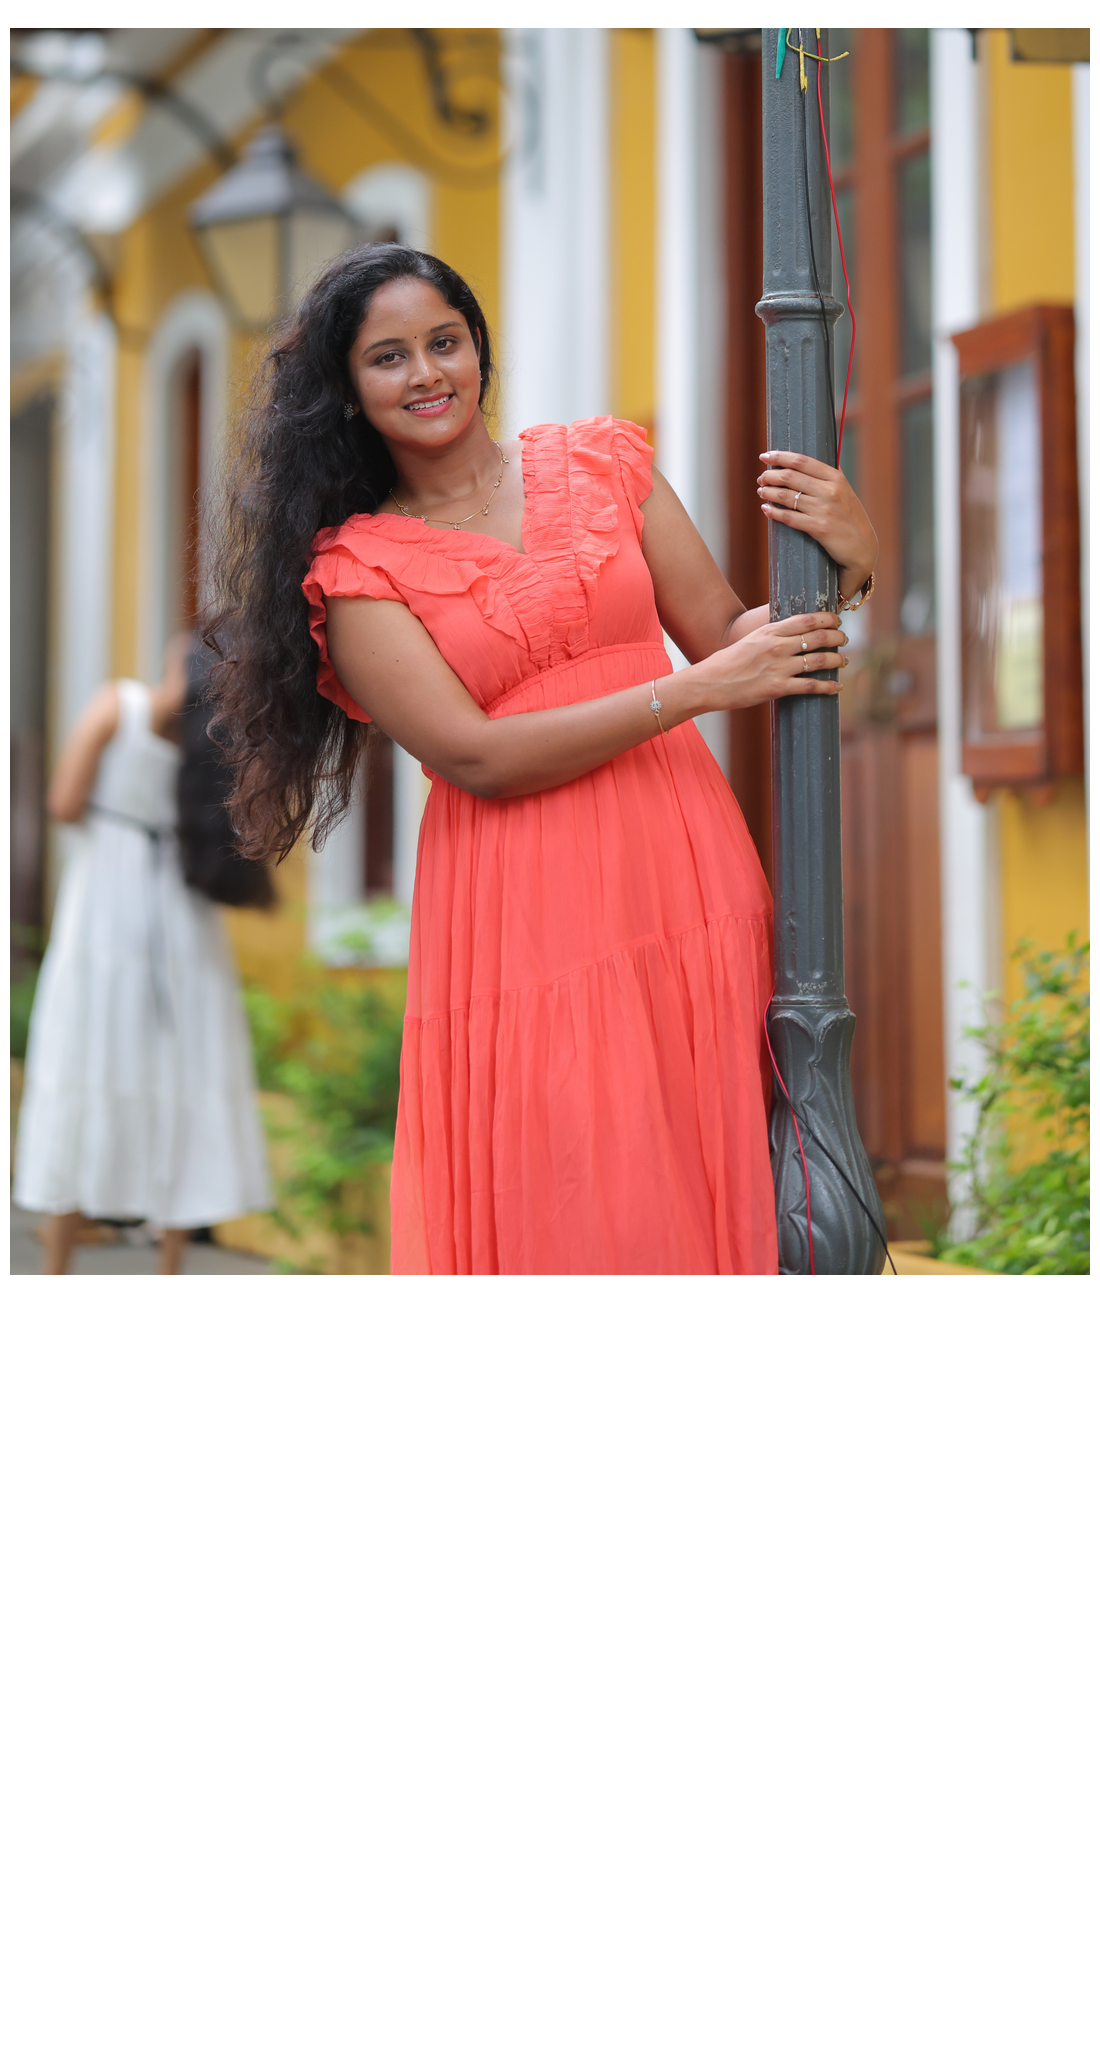
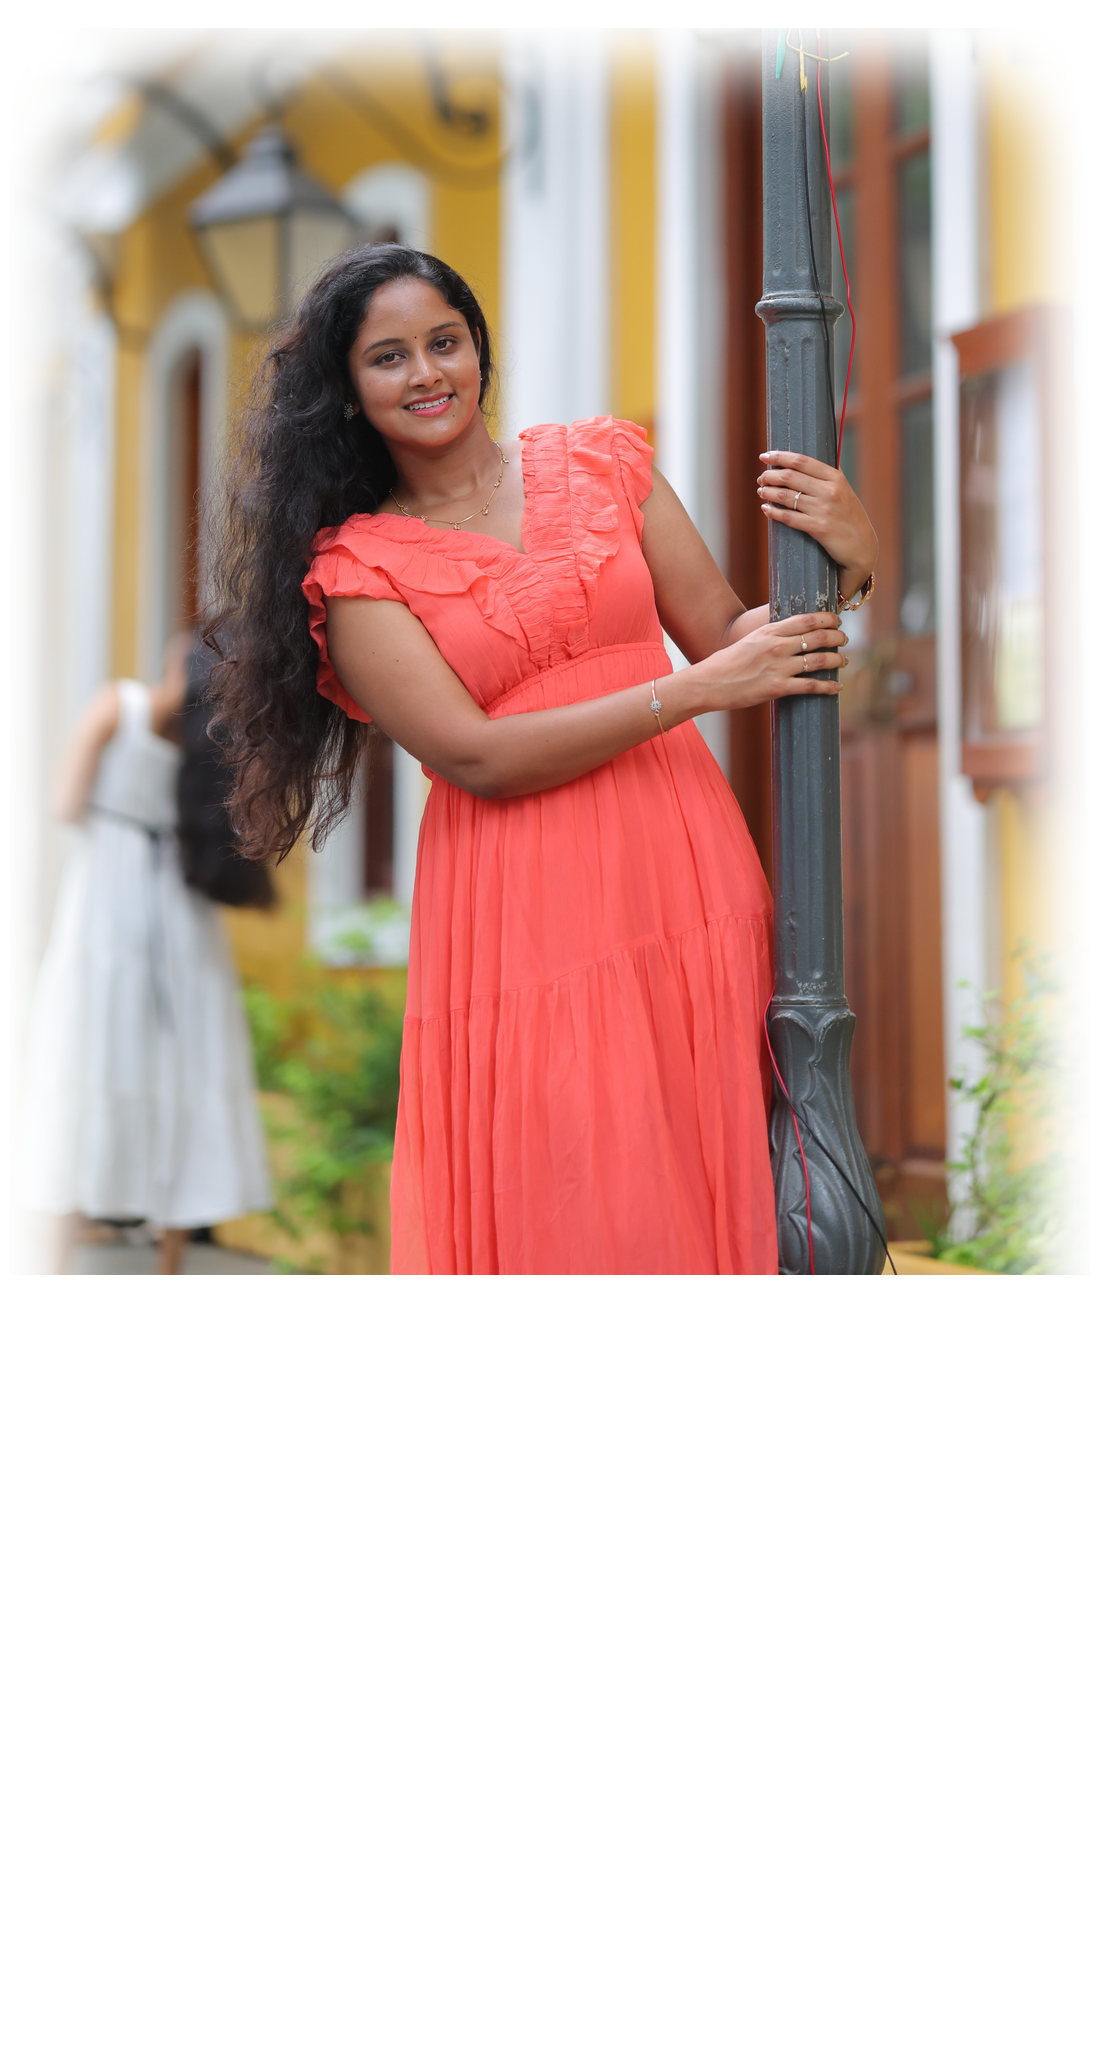
Bake portrait edge fades for Safari

Changed region(s): [[0.0, 0.0, 1.0, 0.6211]]

diff --git a/app/globals.css b/app/globals.css
@@ -487,14 +487,14 @@ h1 { display:flex; flex-direction:column; margin:0; font-family:"Alex Brush",cur
   transform:none!important;
 }
 
-/* The hero files are unedited originals on matching canvases.  Fade only the
-   outer display frame so both portraits blend without modifying photo pixels. */
+/* Edge fade is baked into the PNG alpha channel for identical Safari and
+   desktop rendering; do not layer a browser-specific mask on top. */
 .portrait-groom,
 .portrait-bride{
-  -webkit-mask-image:radial-gradient(ellipse 74% 88% at 50% 50%,#000 42%,rgba(0,0,0,.9) 62%,rgba(0,0,0,.48) 79%,transparent 100%)!important;
-  mask-image:radial-gradient(ellipse 74% 88% at 50% 50%,#000 42%,rgba(0,0,0,.9) 62%,rgba(0,0,0,.48) 79%,transparent 100%)!important;
-  -webkit-mask-composite:source-over!important;
-  mask-composite:add!important;
+  -webkit-mask-image:none!important;
+  mask-image:none!important;
+  -webkit-mask-composite:initial!important;
+  mask-composite:initial!important;
 }
 @media (max-width:620px){
   .portrait-groom,
